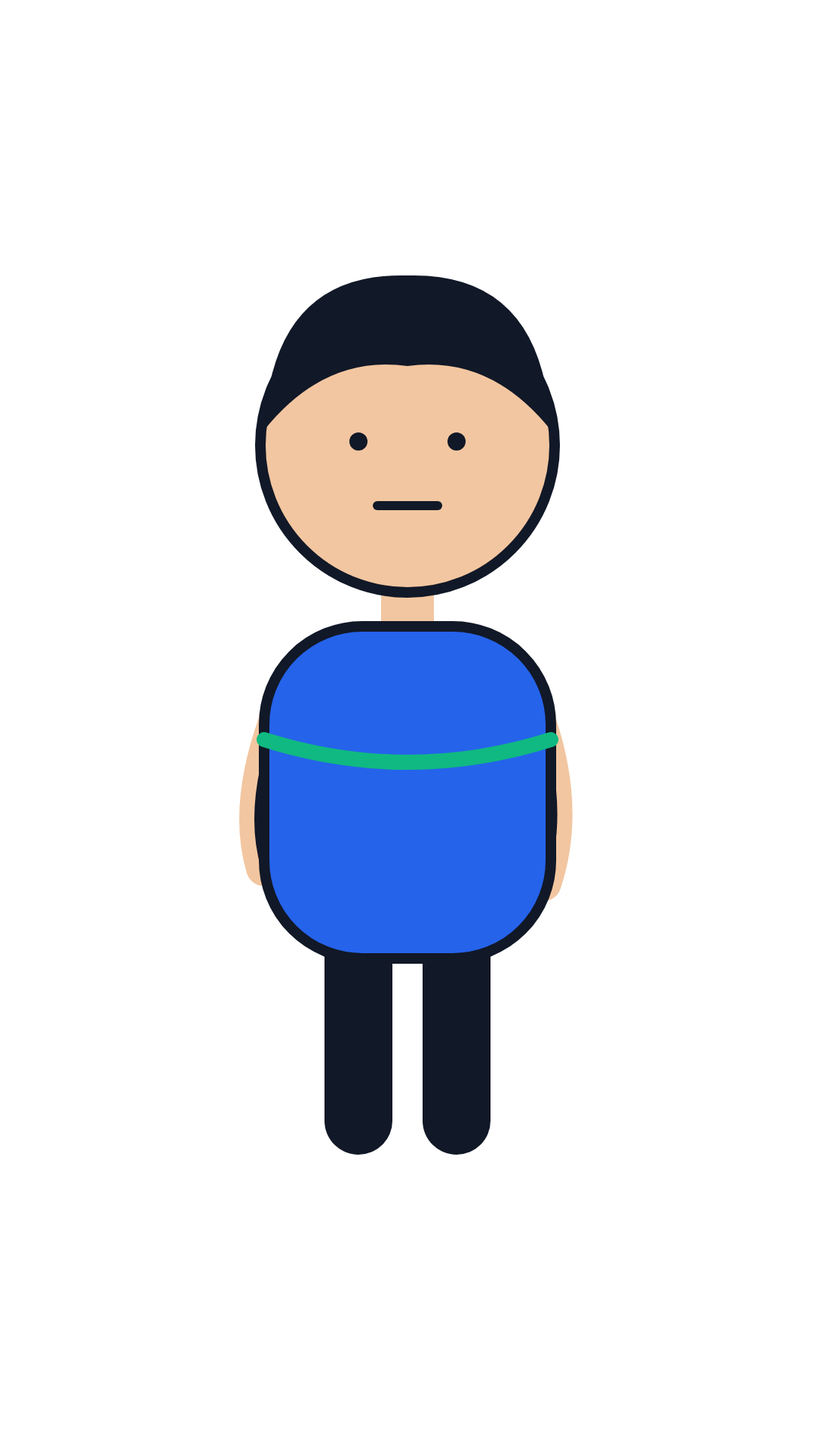
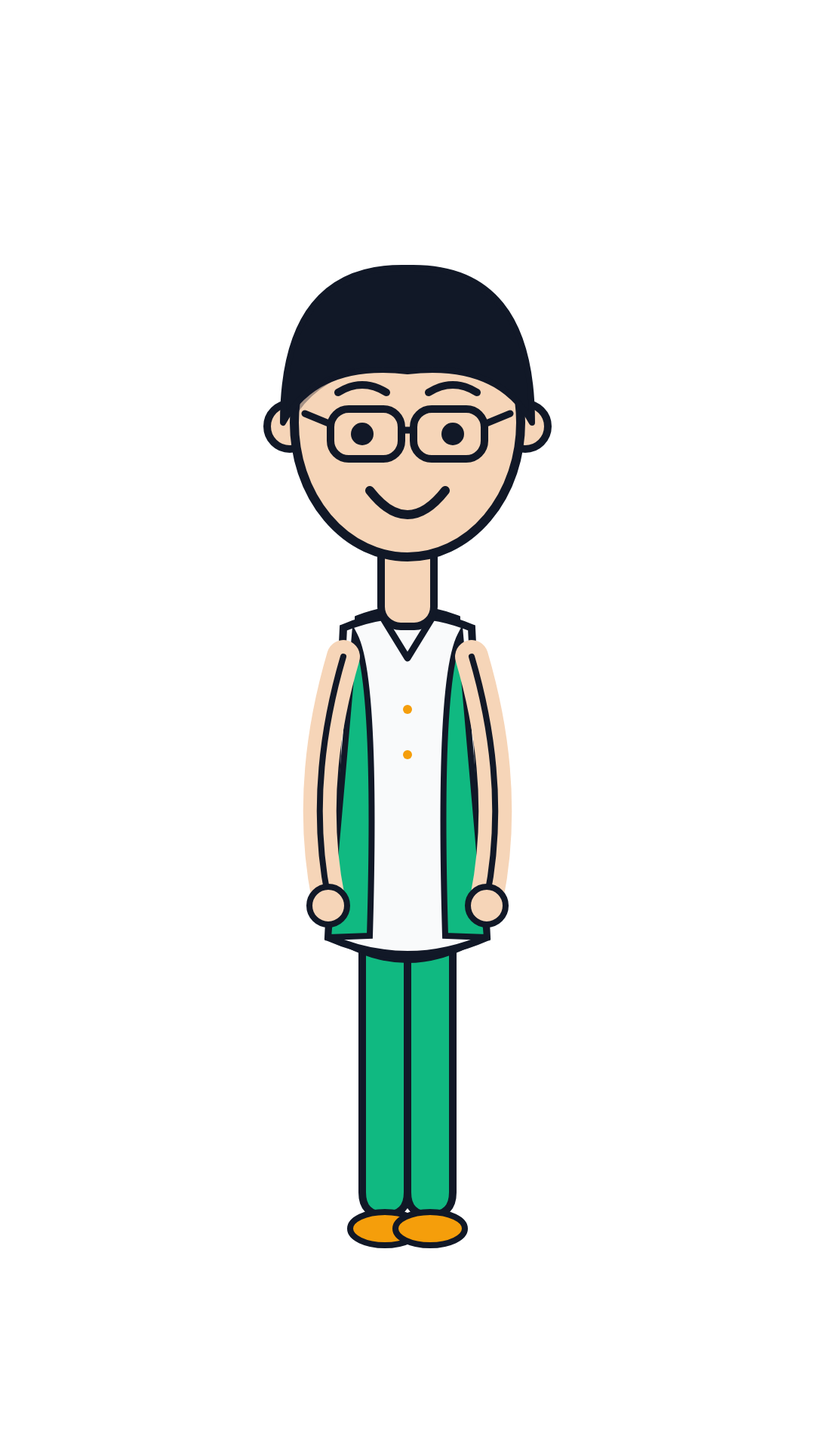
chore(character-designer): migrate contracts, SKILL docs and consumers to locked character path

Changed region(s): [[0.275, 0.2188, 0.7028, 0.875], [0.3972, 0.1562, 0.6111, 0.2188]]

diff --git a/tests/test_chain.py b/tests/test_chain.py
@@ -49,7 +49,9 @@ ORDER = [
 # Files/directories that enter the pipeline from outside (config, manual exports, seeds).
 SEEDS = {
     "config/channel.json", "config/style-bible.json", "config/skill-contracts.json",
+    "assets/character-parts/parts.json",
     P + "pipeline-state.json", P + "10-publish/inputs/", P, P + "08-final-test/",
+    P + "04-character/character-brief.json",
 }
 
 ALLOWED_PREFIXES = ("projects/<project>/", "config/", "assets/", "research/")
@@ -104,7 +106,7 @@ def main() -> int:
         "story-thinker reads exact research paths": TREND in skills["story-thinker"]["input"],
         "script-tester duplicate output fixed": skills["script-tester"]["output"] == P + "02-script/script-tester.json",
         "hook field mapping is explicit": "hook.json.text" in (ROOT / ".opencode/skills/script-writer/SKILL.md").read_text(encoding="utf-8"),
-        "collector consumes character design": "assets/characters/creator-01.json" in skills["script-voice-character-collector"]["input"],
+        "collector consumes character design": "assets/characters/creator-01/character.json" in skills["script-voice-character-collector"]["input"],
         "video-maker consumes collection.json": skills["video-maker"]["input"] == P + "05-scene/collection.json",
         "rough-cut consumes collection.json": P + "05-scene/collection.json" in skills["rough-cut-assembler"]["input"],
         "caption-maker writes captions.json": P + "07-edit/captions.json" in skills["caption-maker"]["output"],

diff --git a/scripts/health_check.py b/scripts/health_check.py
@@ -66,6 +66,11 @@ REQUIRED_FILES = [
     "config/schemas/trend-report.json",
     "tests/fixtures/latest_script.json",
     "tests/fixtures/captions.json",
+    "assets/character-parts/parts.json",
+    "assets/characters/creator-01/character.json",
+    "assets/characters/creator-01/layered.svg",
+    "assets/characters/creator-01/preview.png",
+    "assets/characters/creator-01/preview-sheet.png",
     "assets/characters/creator-01-neutral.svg",
     "assets/characters/creator-01-neutral.png",
     "assets/characters/creator-01-smile.svg",

diff --git a/scripts/rewrite_template_skills.py b/scripts/rewrite_template_skills.py
@@ -533,7 +533,7 @@ SPECS["character-organizer"] = {
     ],
     "example": {
         "entries": entries(
-            ("assets/characters/creator-01.json", 1, "canonical look from the shortlist", "active"),
+            ("assets/characters/creator-01/character.json", 1, "canonical look from the shortlist", "active"),
             ("assets/characters/creator-01-smile.png", 1, "smile expression sheet", "active"),
             ("assets/characters/creator-00.json", 1, "old draft kept for reference", "archive"),
         ),

diff --git a/.opencode/skills/character-designer/SKILL.md b/.opencode/skills/character-designer/SKILL.md
@@ -4,7 +4,7 @@ description: Designs the 2D character look.
 category: character
 status: implemented
 phase: 3
-type: prompt-only
+type: script-backed
 batch: 5
 ---
 
@@ -12,67 +12,80 @@ batch: 5
 
 # When to use
 
-Use when designs the 2d character look for a video in `projects/<project>/`.
+Use when designing the 2D character look for a video in `projects/<project>/`.
 
 # Purpose
 
-Designs the 2D character look.
+Build a reusable, parametric 2D presenter from a short brief. The skill picks parts by documented rules (role, age, personality, niche), creates three distinct candidates, locks the best one, and renders layered SVGs plus PNG previews. It uses the shared `scripts/svg_scene_builder.py` renderer, so the locked look is identical in later scenes.
 
 # Input
 
-- `config/style-bible.json`
+- `config/style-bible.json` — palette, `style.skin_palette`, font, channel voice.
+- `projects/<project>/04-character/character-brief.json` — `role`, `age`, `gender`, `personality`, `niche`, `language`, `name`, `character_id`.
+- `assets/character-parts/parts.json` — parametric SVG parts and the expression/pose map.
 - Context is read through project-memory from `config/channel.json` and `config/style-bible.json`; nothing niche/language/style is hardcoded.
 - `PROJECT` environment variable (defaults to `_template`).
 
 # Output
 
-- `assets/characters/creator-01.json`
-- `assets/characters/creator-01-neutral.svg`
-- `assets/characters/creator-01-neutral.png`
+- `assets/characters/creator-01/character.json` — locked design (part IDs, colours, proportions).
+- `assets/characters/creator-01/layered.svg` — each part in its own `<g id="...">`.
+- `assets/characters/creator-01/preview.png` — neutral/idle preview at 1080x1920.
+- `assets/characters/creator-01/preview-sheet.png` — 5 expressions x 3 poses at 1080x1920.
+- `assets/characters/creator-01-neutral.svg` / `assets/characters/creator-01-neutral.png` — legacy expression view.
+- `assets/characters/creator-01-smile.svg` / `assets/characters/creator-01-smile.png` — legacy expression view.
+- `assets/characters/creator-01-surprised.svg` / `assets/characters/creator-01-surprised.png` — legacy expression view.
+- `projects/<project>/04-character/character-design-set.json` — candidates, chosen design, criteria.
 
 # Steps
 
-1. Read `config/style-bible.json` (`style.palette`, `style.visual_style`, `characters`, `voice`) and `projects/<project>/02-script/latest_script.json` through project-memory. Stop if the style bible is missing or has no palette.
-2. Derive one reusable character: `id` in lowercase-kebab-case, `name` in the project language, `appearance` with `body`, `hair`, `clothing` and a `palette` copied from the style bible, and `voice` with `gender` and `tone` matching the script's narrator.
-3. Check the design against the real 2D constraint: simple shapes only (circle head, rounded body, 2-3 clothing shapes), no fine facial detail, no gradients, no photo texture. Describe each part in one short English phrase.
-4. Write `assets/characters/creator-01.json` under `assets/characters/`; create that folder first.
-5. Run `python scripts/schema_validator.py character assets/characters/creator-01.json`, re-open the file, and log any problem via error-log-keeper at `projects/<project>/08-final-test/error-log.jsonl`.
-6. Render the three reusable flat-shape views with `python scripts/svg_scene_builder.py character --character assets/characters/creator-01.json --expression neutral --out assets/characters/creator-01-neutral`, then repeat with `smile` and `surprised`. The helper validates the SVG, rasterizes it to PNG with the already-installed Edge renderer, and prints both exact paths.
+1. Read `config/style-bible.json`, `projects/<project>/04-character/character-brief.json` and `assets/character-parts/parts.json` through project-memory. Stop if any is missing.
+2. Run `python scripts/skill_tools.py character-designer` (or `python scripts/character_designer.py`). The script applies the documented rules: role picks outfit and accessory, age picks head/body, personality picks eyes/brows/mouth, and the palette comes only from the style bible.
+3. The script writes three candidates to `assets/characters/creator-01-candidate-01/`, `-candidate-02/`, `-candidate-03/`, each with `character.json`, `layered.svg` and `preview.png`.
+4. It scores each candidate with `fit_score`, locks the winner as `assets/characters/creator-01/character.json`, and writes the layered SVG, previews and expression/pose sheet.
+5. It regenerates the three legacy expression views from the locked design so every downstream consumer sees the same look.
+6. It validates the locked file against `config/schemas/character.json`, checks every layer id, measures the PNGs and reports the evidence in `projects/<project>/04-character/character-design-set.json`.
 
-**Acceptance criteria**
-- `character.json` passes `config/schemas/character.json`.
-- `id` matches `^[a-z0-9-]+$` and is unique inside `assets/characters/`.
-- `appearance.palette` is copied from `config/style-bible.json`, not invented.
-- `voice.gender` and `voice.tone` agree with the script's narrator.
-- `assets/characters/creator-01-neutral.svg/.png`, `creator-01-smile.svg/.png` and `creator-01-surprised.svg/.png` exist, parse as SVG, and are exactly 1080x1920 PNGs.
+**Acceptance criteria (numeric)**
+- `character.json` passes `config/schemas/character.json`; `id` matches `^[a-z0-9-]+$`.
+- Exactly 3 distinct candidates are produced and one is locked with `locked: true`.
+- The layered SVG contains all 10 layer ids: body, outfit, arms, neck, head, hair, brows, eyes, mouth, accessory.
+- Head-to-body ratio is between 0.18 and 0.30 (inclusive).
+- Skin/outline contrast ratio is at least 3.0.
+- `appearance.palette` has at least 3 distinct hex colours, all sourced from `config/style-bible.json`.
+- Every PNG is exactly 1080x1920, and two renders of the same design are byte-identical.
+- The preview sheet covers 5 expressions (neutral, happy, worried, surprised, thinking) x 3 poses (idle, wave, point).
+
+**Bangla cultural note**
+- Use a Bengali name in `name` (for example "রাফি" or "নুসরাত") and the `role_label` in Bengali (শিক্ষক, শিক্ষার্থী, ফ্রিল্যান্সার, দোকানদার, চাকরিজীবী, কনটেন্ট ক্রিয়েটর).
+- Pick context-appropriate clothing from the part library: `outfit-panjabi`, `outfit-kurta`, `outfit-shirt-vest` or `outfit-formal` for a finance teacher; `outfit-hoodie` or `outfit-t-shirt` for a student/freelancer.
+- Draw from the full `style.skin_palette` so Bangladesh / Bangla-speaking viewers see skin-tone variety; never hardcode one tone.
 
 **Output format (short example)**
 ```json
 {
   "id": "creator-01",
-  "name": "অনিক",
+  "name": "রাফি",
   "style_source": "config/style-bible.json",
-  "appearance": {
-    "body": "slim, rounded young adult", "hair": "short black hair",
-    "clothing": "simple blue shirt",
-    "palette": ["#111827", "#F9FAFB", "#F59E0B", "#10B981"]
-  },
-  "voice": {"gender": "male", "tone": "calm and conversational"}
+  "parts": {"head": "head-oval", "hair": "hair-side-part", "eyes": "eyes-round",
+            "brows": "brows-soft", "mouth": "mouth-smile", "body": "body-average",
+            "outfit": "outfit-shirt-vest", "accessory": "accessory-glasses"},
+  "proportions": {"head_height": 356, "total_height": 1300, "head_to_body": 0.274}
 }
 ```
 
 **Quality rules**
-1. Use at most 3 clothing shapes so the look stays consistent across scenes.
-2. Keep hair, shirt and palette identical for this `id` in every scene.
-3. Do not add a second character here; create a new file with a new `id` instead.
-4. Reuse `scripts/svg_scene_builder.py` for every expression; never hand-edit the generated SVG or PNG.
+1. Choose parts with the documented rules; never pick randomly and never hand-edit a generated SVG or PNG.
+2. Keep part IDs, colours and proportions identical for one `id` across every scene.
+3. Do not add a second character here; create a new `character_id` in the brief instead.
+4. Reuse `scripts/svg_scene_builder.py` for all rasterising.
 
 # How to test
 
-- Type: `Use the character-designer skill with PROJECT=<project>`. Expected: `assets/characters/creator-01.json` exists, parses cleanly, and contains no hardcoded niche or language value.
-- Run `python scripts/svg_scene_builder.py --self-test` → expected `PASS svg-scene-builder: PNG 1080x1920 ...`.
-- Run `python scripts/svg_scene_builder.py sample` → expected `assets/characters/creator-01-neutral.png`, `creator-01-smile.png` and `creator-01-surprised.png` are printed as OUTPUT paths.
-- Checklist: context came from project-memory; input validated; output path is exact; no placeholder steps remain.
+- `python scripts/skill_tools.py character-designer --self-test` → expected `PASS character-designer: 3 distinct candidates, 10 layers each, schema valid`, then the byte-identical render and preview-sheet PASS lines.
+- `PROJECT=<project> python scripts/skill_tools.py character-designer` → expected `PASS character-designer: 3 candidates, locked creator-01 ...` plus OUTPUT paths for the character, design set and report.
+- `python scripts/schema_validator.py character assets/characters/creator-01/character.json` → expected `PASS character`.
+- Checklist: context came from project-memory; input validated; output paths are exact; no placeholder steps remain.
 
 # Depends on / feeds into
 

diff --git a/.opencode/skills/character-qa-tester/SKILL.md b/.opencode/skills/character-qa-tester/SKILL.md
@@ -12,15 +12,17 @@ batch: 5
 
 # When to use
 
-Use when tests character outputs for errors for a video in `projects/<project>/`.
+Use when testing character outputs for errors for a video in `projects/<project>/`.
 
 # Purpose
 
-Tests character outputs for errors.
+Tests the locked parametric character, its layer structure and its rendered previews, then writes a field-by-field verdict.
 
 # Input
 
-- `assets/characters/creator-01.json`
+- `assets/characters/creator-01/character.json`
+- `assets/character-parts/parts.json`
+- `assets/characters/creator-01/layered.svg`
 - Context is read through project-memory from `config/channel.json` and `config/style-bible.json`; nothing niche/language/style is hardcoded.
 - `PROJECT` environment variable (defaults to `_template`).
 
@@ -29,16 +31,18 @@ Tests character outputs for errors.
 - `projects/<project>/04-character/character-qa-tester.json`
 
 # Steps
-1. Open `assets/characters/creator-01.json` and validate it against the character schema.
-2. Confirm the palette has exactly 4 hex colours and the expression set contains neutral, smile and surprised.
-3. Check each SVG and PNG sidecar under `assets/characters/` parses and measures exactly 1080x1920.
-4. Compare hair, clothing and voice fields with `config/style-bible.json`; report any contradiction as FAIL.
-5. Write field-by-field findings to `projects/<project>/04-character/character-qa-tester.json`.
-6. Assert the report holds at least 3 checked fields and one explicit PASS or FAIL verdict.
+
+1. Validate `assets/characters/creator-01/character.json` against `config/schemas/character.json`.
+2. Confirm each part ID in `parts` exists in `assets/character-parts/parts.json`, and that the library holds at least 6 heads, 8 hairstyles, 6 eyes, 4 brows, 8 mouths, 5 bodies, 8 outfits and 8 accessories.
+3. Parse `assets/characters/creator-01/layered.svg` and assert all 10 layer ids exist: body, outfit, arms, neck, head, hair, brows, eyes, mouth, accessory.
+4. Assert head-to-body ratio is 0.18–0.30, skin/outline contrast is at least 3.0, and `appearance.palette` holds at least 3 distinct hex colours from `config/style-bible.json`.
+5. Check `assets/characters/creator-01/preview.png` and `assets/characters/creator-01/preview-sheet.png` parse as PNG and measure exactly 1080x1920.
+6. Compare hair, clothing and voice fields with `config/style-bible.json`; report any contradiction as FAIL.
+7. Write field-by-field findings to `projects/<project>/04-character/character-qa-tester.json`, with at least 3 checked fields and one explicit PASS or FAIL verdict.
 
 # How to test
 
-- `python scripts/skill_tools.py character-qa-tester --self-test` → expected `PASS character-qa-tester: ...`. Then confirm `projects/<project>/04-character/character-qa-tester.json` exists and is non-empty after a real run.
+- `python scripts/skill_tools.py character-qa-tester --self-test` → expected `PASS character-qa-tester: schema, 10 layer ids, palette (5) and 1080x1920 PNGs verified`. Then confirm `projects/<project>/04-character/character-qa-tester.json` exists and is non-empty after a real run.
 - Checklist: context came from project-memory; input validated; output path is exact; no placeholder steps remain.
 
 # Depends on / feeds into

diff --git a/.opencode/skills/consistency-guardian/SKILL.md b/.opencode/skills/consistency-guardian/SKILL.md
@@ -12,16 +12,17 @@ batch: 5
 
 # When to use
 
-Use when checks character consistency across scenes for a video in `projects/<project>/`.
+Use when checking character consistency across scenes for a video in `projects/<project>/`.
 
 # Purpose
 
-Checks character consistency across scenes.
+Compares every rendered scene against the locked parametric character and proves the same part IDs, colours and proportions produce byte-identical renders.
 
 # Input
 
 - `projects/<project>/06-video/scenes/`
-- `assets/characters/creator-01.json`
+- `assets/characters/creator-01/character.json`
+- `assets/character-parts/parts.json`
 - Context is read through project-memory from `config/channel.json` and `config/style-bible.json`; nothing niche/language/style is hardcoded.
 - `PROJECT` environment variable (defaults to `_template`).
 
@@ -30,16 +31,18 @@ Checks character consistency across scenes.
 - `projects/<project>/04-character/consistency-guardian.json`
 
 # Steps
-1. Build a reference fingerprint from `assets/characters/creator-01.json`: palette, hair, clothing and voice tone.
-2. Inspect every MP4 in `projects/<project>/06-video/scenes/` and extract its first frame with ffmpeg.
-3. Compare each frame with the fingerprint; flag a changed shirt colour or missing palette colour as FAIL.
-4. Count scene files and compare that number with the collector scene list; a gap is WARN.
-5. Save frame indexes, mismatch reasons and a continuity verdict to `projects/<project>/04-character/consistency-guardian.json`.
-6. Assert the report lists every scene filename that was examined.
+
+1. Build a reference fingerprint from `assets/characters/creator-01/character.json`: every `parts` key/value (part IDs and hex colours) plus `proportions` (head height, total height, head-to-body ratio, shoulder width).
+2. Render the same design twice with `scripts/character_designer.py` and compare the two PNGs by SHA-256; any difference is FAIL.
+3. Inspect every MP4 in `projects/<project>/06-video/scenes/` and extract its first frame with ffmpeg.
+4. Compare each frame with the fingerprint; flag a changed shirt colour, hair style, skin tone or missing palette colour as FAIL.
+5. Count scene files and compare that number with the collector scene list; a gap is WARN.
+6. Save frame indexes, mismatch reasons, both render hashes and a continuity verdict to `projects/<project>/04-character/consistency-guardian.json`.
+7. Assert the report lists every scene filename that was examined.
 
 # How to test
 
-- `python scripts/skill_tools.py consistency-guardian --self-test` → expected `PASS consistency-guardian: ...`. Then confirm `projects/<project>/04-character/consistency-guardian.json` exists and is non-empty after a real run.
+- `python scripts/skill_tools.py consistency-guardian --self-test` → expected `PASS consistency-guardian: identical part ids/colors/proportions and byte-identical renders across two scenes`. Then confirm `projects/<project>/04-character/consistency-guardian.json` exists and is non-empty after a real run.
 - Checklist: context came from project-memory; input validated; output path is exact; no placeholder steps remain.
 
 # Depends on / feeds into

diff --git a/docs/lessons.md b/docs/lessons.md
@@ -105,3 +105,11 @@
 - **Recompute final verdicts from current files.** The first final checker still used static issue sets from the original audit and reported stale failures after the fixes. Lesson: after each phase, regenerate facts and derive verdicts from live files and tests.
 - **Changing a shared output path breaks downstream contracts silently.** Moving `trend-report.json` to `research/trend-cache/` left `story-thinker` and `content-calendar` pointing at the old project path. `tests/test_chain.py` caught it. Lesson: update every consumer, its SKILL.md and the chain regression check in the same commit.
 - **Optional APIs need an explicit unavailable state.** `trend-finder` reports `unavailable`/`warn` per source and writes an empty `trends` list instead of inventing rows when a key or package is missing. Lesson: a missing source is data the report must carry, not a reason to fabricate a trend.
+
+## 2026-11-23 — Parametric character designer
+
+- **Keep one renderer for scenes and previews.** `svg_scene_builder.character_markup()` now delegates to `scripts/character_designer.py` when a character has `parts`; the legacy flat-shape path still works for older files. Lesson: extend the shared renderer instead of adding a second one.
+- **A locked character is a data file, not a drawing.** The winner stores every part ID, colour and proportion in `assets/characters/creator-01/character.json`; two renders are compared by SHA-256 to prove consistency. Lesson: consistency is checkable only when the design is structured data.
+- **No Python package was installed for SVG or PNG.** The parts library is JSON with `{skin}`, `{hair}`, `{outfit}`, `{accent}`, `{outline}`, `{light}`, `{eye}` placeholders, resolved with `str.replace` and rasterized by the existing Edge renderer. Lesson: templates plus the standard library are enough for deterministic flat-shape art.
+- **Picking by rule beats picking at random.** Role, age, personality and niche map to documented part choices, and `fit_score` ranks the three candidates. Lesson: a documented rule is reproducible and explainable to the viewer.
+- **Migrate the contract and every consumer together.** Moving the canonical file to `assets/characters/creator-01/character.json` required updating `config/skill-contracts.json`, ten SKILL.md files, `tests/test_chain.py`, docs and the regeneration scripts in one pass. The three legacy expression views are regenerated from the locked design so older consumers stay valid. Lesson: a new canonical path is a graph change, not a single find-and-replace.

diff --git a/.opencode/skills/scenario-designer/SKILL.md b/.opencode/skills/scenario-designer/SKILL.md
@@ -38,7 +38,7 @@ Builds scene layouts and visual plans.
 3. Lay out the scene as flat shapes: background colour from the character JSON palette, the character placed inside the 9:16 frame, and one prop that matches the scene visual prompt.
 4. Write the result to `projects/<project>/05-scene/scenario-designer.json` inside the current project under projects/<project>/; create parent folders first.
 5. Re-open `projects/<project>/05-scene/scenario-designer.json` and verify it is valid and non-empty; record any problem via error-log-keeper at `projects/<project>/08-final-test/error-log.jsonl`.
-6. Draw the scene with `python scripts/svg_scene_builder.py scene --character assets/characters/creator-01.json --description "<scene visual prompt>" --out assets/scenes/scene-warm-desk-smile --background-out assets/scenes/warm-desk-background`. The helper infers expression and pose from the description, draws a flat-shape background plus character, validates the SVG, rasterizes both PNGs with the already-installed Edge renderer, and prints the exact paths.
+6. Draw the scene with `python scripts/svg_scene_builder.py scene --character assets/characters/creator-01/character.json --description "<scene visual prompt>" --out assets/scenes/scene-warm-desk-smile --background-out assets/scenes/warm-desk-background`. The helper infers expression and pose from the description, draws a flat-shape background plus character, validates the SVG, rasterizes both PNGs with the already-installed Edge renderer, and prints the exact paths.
 
 **Acceptance criteria**
 - `projects/<project>/05-scene/scenario-designer.json` is valid and non-empty.

diff --git a/docs/HOW-TO-USE.md b/docs/HOW-TO-USE.md
@@ -61,7 +61,7 @@ Use the caption-maker skill with PROJECT=my-video. Turn projects/my-video/03-voi
 ## 4. Character + scene
 
 ```text
-Use the character-designer skill with PROJECT=my-video. Read config/style-bible.json through project-memory and write assets/characters/creator-01.json plus its SVG/PNG expressions.
+Use the character-designer skill with PROJECT=my-video. Read config/style-bible.json through project-memory and write assets/characters/creator-01/character.json plus its SVG/PNG expressions.
 ```
 
 ```text
@@ -71,7 +71,7 @@ Use the scenario-designer skill with PROJECT=my-video. Build projects/my-video/0
 ## 5. Collect + render video
 
 ```text
-Use the script-voice-character-collector skill with PROJECT=my-video. Combine projects/my-video/02-script/latest_script.json, projects/my-video/03-voice/voiceover.mp3, assets/characters/creator-01.json and assets/scenes/scene-warm-desk-smile.png into projects/my-video/05-scene/collection.json (including scene_images[] and scenes[]).
+Use the script-voice-character-collector skill with PROJECT=my-video. Combine projects/my-video/02-script/latest_script.json, projects/my-video/03-voice/voiceover.mp3, assets/characters/creator-01/character.json and assets/scenes/scene-warm-desk-smile.png into projects/my-video/05-scene/collection.json (including scene_images[] and scenes[]).
 ```
 
 ```text

diff --git a/.opencode/skills/copyright-policy-checker/SKILL.md b/.opencode/skills/copyright-policy-checker/SKILL.md
@@ -21,7 +21,7 @@ Checks copyright and policy risks.
 # Input
 
 - `projects/<project>/02-script/latest_script.json`
-- `assets/characters/creator-01.json`
+- `assets/characters/creator-01/character.json`
 - `projects/<project>/08-final-test/final-video.mp4`
 - Context is read through project-memory from `config/channel.json` and `config/style-bible.json`; nothing niche/language/style is hardcoded.
 - `PROJECT` environment variable (defaults to `_template`).
@@ -32,7 +32,7 @@ Checks copyright and policy risks.
 
 # Steps
 1. Read `projects/<project>/02-script/latest_script.json` and extract narration, visual_prompt and highlight_words for source tracing.
-2. Compare `assets/characters/creator-01.json` with the drawing in `projects/<project>/08-final-test/final-video.mp4`; flag an unlicensed look-alike as WARN.
+2. Compare `assets/characters/creator-01/character.json` with the drawing in `projects/<project>/08-final-test/final-video.mp4`; flag an unlicensed look-alike as WARN.
 3. Check that music and SFX cue names in the script match the licensed list in `music-sfx-selector.json`; an absent cue id is FAIL.
 4. Look for third-party brand names in narration and require a clearance note for each one.
 5. Save each finding with its source line and risk level to `projects/<project>/08-final-test/copyright-policy-checker.json`.

diff --git a/.opencode/skills/expression-pose-library/SKILL.md b/.opencode/skills/expression-pose-library/SKILL.md
@@ -21,7 +21,7 @@ Publish the exact expression and pose vocabulary that scripts/svg_scene_builder.
 
 # Input
 
-- `assets/characters/creator-01.json`
+- `assets/characters/creator-01/character.json`
 - Context is read through project-memory from `config/channel.json` and `config/style-bible.json`; nothing niche/language/style is hardcoded.
 - `PROJECT` environment variable (defaults to `_template`).
 
@@ -86,7 +86,7 @@ Schema: `config/schemas/inventory.json`
 
 # Steps
 
-1. Read the palette and character id from `assets/characters/creator-01.json` after schema validation.
+1. Read the palette and character id from `assets/characters/creator-01/character.json` after schema validation.
 2. Query the builder's expression and pose alias tables by reading `scripts/svg_scene_builder.py`.
 3. Generate one PNG per expression with the builder if the file is missing.
 4. Register each generated file with its builder version and state.

diff --git a/.opencode/skills/character-setup-manager/SKILL.md b/.opencode/skills/character-setup-manager/SKILL.md
@@ -21,7 +21,7 @@ Register the flat body, mouth and prop layers that the SVG builder can swap inde
 
 # Input
 
-- `assets/characters/creator-01.json`
+- `assets/characters/creator-01/character.json`
 - Context is read through project-memory from `config/channel.json` and `config/style-bible.json`; nothing niche/language/style is hardcoded.
 - `PROJECT` environment variable (defaults to `_template`).
 
@@ -80,7 +80,7 @@ Schema: `config/schemas/inventory.json`
 
 # Steps
 
-1. Validate assets/characters/creator-01.json against `config/schemas/character.json` first.
+1. Validate assets/characters/creator-01/character.json against `config/schemas/character.json` first.
 2. Read the builder's accepted layer aliases from scripts/svg_scene_builder.py without modifying it.
 3. Confirm each of the three layer files exists on disk before registering it.
 4. Assign versions from the file metadata and keep old SVGs as archive entries.
